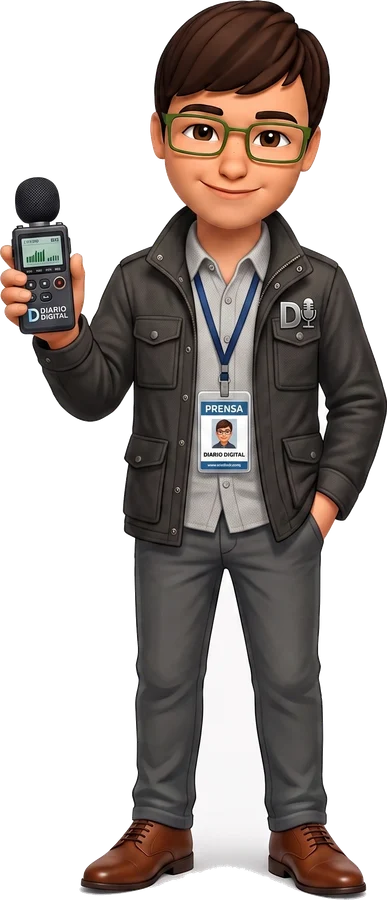
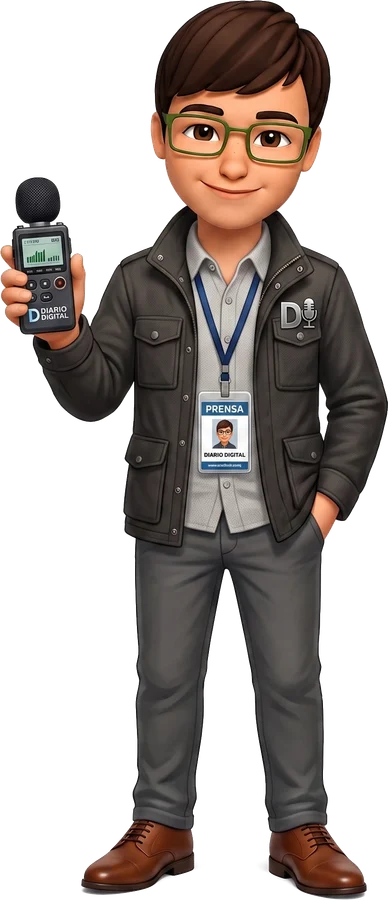
Sacarle a Migue la columna blanca entre las piernas
En el tema oscuro Migue aparecia partido al medio por una franja blanca, con
otra mancha bajo los zapatos. No era un halo del recorte: eran dos bolsones de
fondo que el relleno nunca alcanzo.

El fondo se saca entrando por los BORDES de la imagen, a proposito, porque un
umbral simple se comeria la camisa clara y la cara de la credencial, que son
interiores. El efecto secundario es que cualquier bolson de fondo que la figura
rodee por completo queda opaco, y hay dos: el hueco entre las piernas -grande,
del cinturon a los zapatos- y la ranura entre el brazo derecho y el torso. En
papel blanco no se ven. Sobre el fondo oscuro del chat, el de las piernas es una
columna blanca.

Se sacan por punto semilla y no por una regla automatica porque NINGUNA regla
los separa de la credencial: el hueco del brazo tiene 1.465 px y la cara de la
credencial 5.489, asi que por tamano se salvaria el hueco y se borraria la
credencial; por color tampoco, los tres son gris casi blanco. Para que ser
explicito no se vuelva una trampa, cada semilla lleva el tamano que tiene que
dar y hay un tope para la isla clara mas grande que puede quedar: con una
ilustracion nueva el script se planta en vez de agujerear a Migue en silencio.

Aparte, la sombra del piso dejaba un contorno palido abrazando las suelas: el
umbral se lleva su parte clara y deja la oscura. Se desvanece siguiendo por
conexion hacia lo claro y neutro, con una rampa para no dejar un borde nuevo
[…]

diff --git a/src/components/migue/retrato-migue.tsx b/src/components/migue/retrato-migue.tsx
@@ -37,13 +37,20 @@ export function RetratoMigue({
   );
 }
 
-/** Migue entero, para cuando hay lugar: la bienvenida del chat. */
+/**
+ * Migue entero, para cuando hay lugar: la bienvenida del chat.
+ *
+ * El ancho sale del archivo y no de un número redondo: `trim()` recorta la
+ * figura a lo que ocupa de verdad, así que cambia si cambia el recorte del
+ * fondo. Si no coincide con el archivo, Next sirve la imagen con otra relación
+ * de aspecto.
+ */
 export function CuerpoMigue({ className }: { className?: string }) {
   return (
     <Image
       src="/migue/cuerpo.webp"
       alt=""
-      width={387}
+      width={388}
       height={900}
       sizes="120px"
       className={cn("shrink-0 object-contain", className)}

diff --git a/public/migue/README.md b/public/migue/README.md
@@ -1,25 +1,63 @@
 # Migue
 
 El personaje del asistente del diario. Lo aportó el municipio el 2026-08-26; el
-original es `MiguePeriodista.jpg`, 2048×2048, sobre fondo blanco.
+original es `MiguePeriodista.jpg`, 2048×2048, sobre fondo blanco. No está en el
+repositorio: estos dos archivos sí.
 
-## Cómo se derivaron estos archivos
+Se derivan con `scripts/migue-imagenes.mjs`, que se corre a mano. Antes ese
+script vivía en una carpeta temporal, y por eso arreglar el hueco entre las
+piernas hubo que reconstruirlo entero —incluido el rectángulo del retrato, que
+se recuperó buscando cuál reproduce la silueta del archivo ya publicado—.
 
 - **`retrato.webp`** (320×320) — la cabeza, para el avatar del chat y del botón
   flotante. Un cuerpo entero dentro de un círculo de 44 px no se lee.
-- **`cuerpo.webp`** (387×900) — la figura completa, para la bienvenida del chat.
+- **`cuerpo.webp`** (388×900) — la figura completa, para la bienvenida del chat.
+  El ancho sale del recorte, no de un número redondo, y tiene que coincidir con
+  el `width` del componente.
 
-Al fondo blanco se le sacó el alfa con un **relleno desde los bordes**, no con
-un umbral: sólo se vuelve transparente el blanco *conectado al borde*. Con un
-umbral simple se habrían borrado también la camisa clara y la credencial, que
-son interiores.
+## Por qué el fondo se saca así
 
-El umbral es 214 y no 235 porque la sombra bajo los zapatos es un gris claro
-degradado: con el valor alto quedaba un charco blanco flotando bajo los pies en
-el tema oscuro.
+Con un **relleno desde los bordes** y no con un umbral: sólo se vuelve
+transparente lo claro que está *conectado al borde*. Con un umbral simple se
+borrarían también la camisa clara y la cara de la credencial, que son
+interiores.
 
-La transparencia no es opcional. Sin ella, el avatar sería un cuadrado blanco
-sobre el fondo oscuro del chat.
+El umbral es 214 y no 235 porque el fondo del original no es blanco puro —mide
+247— y la figura trae un contorno blanco de calcomanía todavía más claro.
+
+### Los huecos encerrados
+
+Entrar sólo por los bordes deja opaco cualquier bolsón de fondo que la figura
+rodee por completo, y hay dos: **entre las piernas** —grande, del cinturón a los
+zapatos— y la ranura **entre el brazo derecho y el torso**. En el tema claro no
+se notaban. En el oscuro, el de las piernas era una columna blanca que partía a
+Migue al medio.
+
+Se sacan por punto semilla, no por una regla automática, porque ninguna regla
+los separa de la credencial: el hueco del brazo tiene 1.465 px y la cara de la
+credencial 5.489, así que por tamaño se salvaría el hueco y se borraría la
+credencial; por color tampoco, los tres son gris casi blanco.
+
+El precio de ser explícito es que las semillas valen para *este* original. Por
+eso cada una lleva el tamaño que tiene que dar, y hay un tope para la isla clara
+más grande que puede quedar: si el municipio manda una ilustración nueva, el
+script se planta en vez de agujerear a Migue en silencio.
+
+### La sombra del piso
+
+Migue está parado sobre una sombra gris degradada. El umbral se lleva la parte
+clara y deja la oscura, así que quedaba un contorno pálido abrazando las suelas.
+Se desvanece siguiendo por **conexión** hacia lo claro y neutro —que es lo que
+la sombra es—, con una rampa para que no quede un borde nuevo donde estaba el
+viejo. La camisa también es gris claro, pero está encerrada por la campera y a
+ella no se llega nunca.
+
+## Si al cambiar la imagen seguís viendo la vieja
+
+Es la caché del optimizador de Next, que en desarrollo vive **dentro de
+`.next`** y no en `.next/cache/images`. Borrar `.next` y levantar de nuevo.
+Cuesta un rato encontrarlo: el archivo en disco y el que sirve `/migue/...`
+están bien, y lo que llega mal es sólo lo que pasa por `/_next/image`.
 
 ## Pendiente
 
